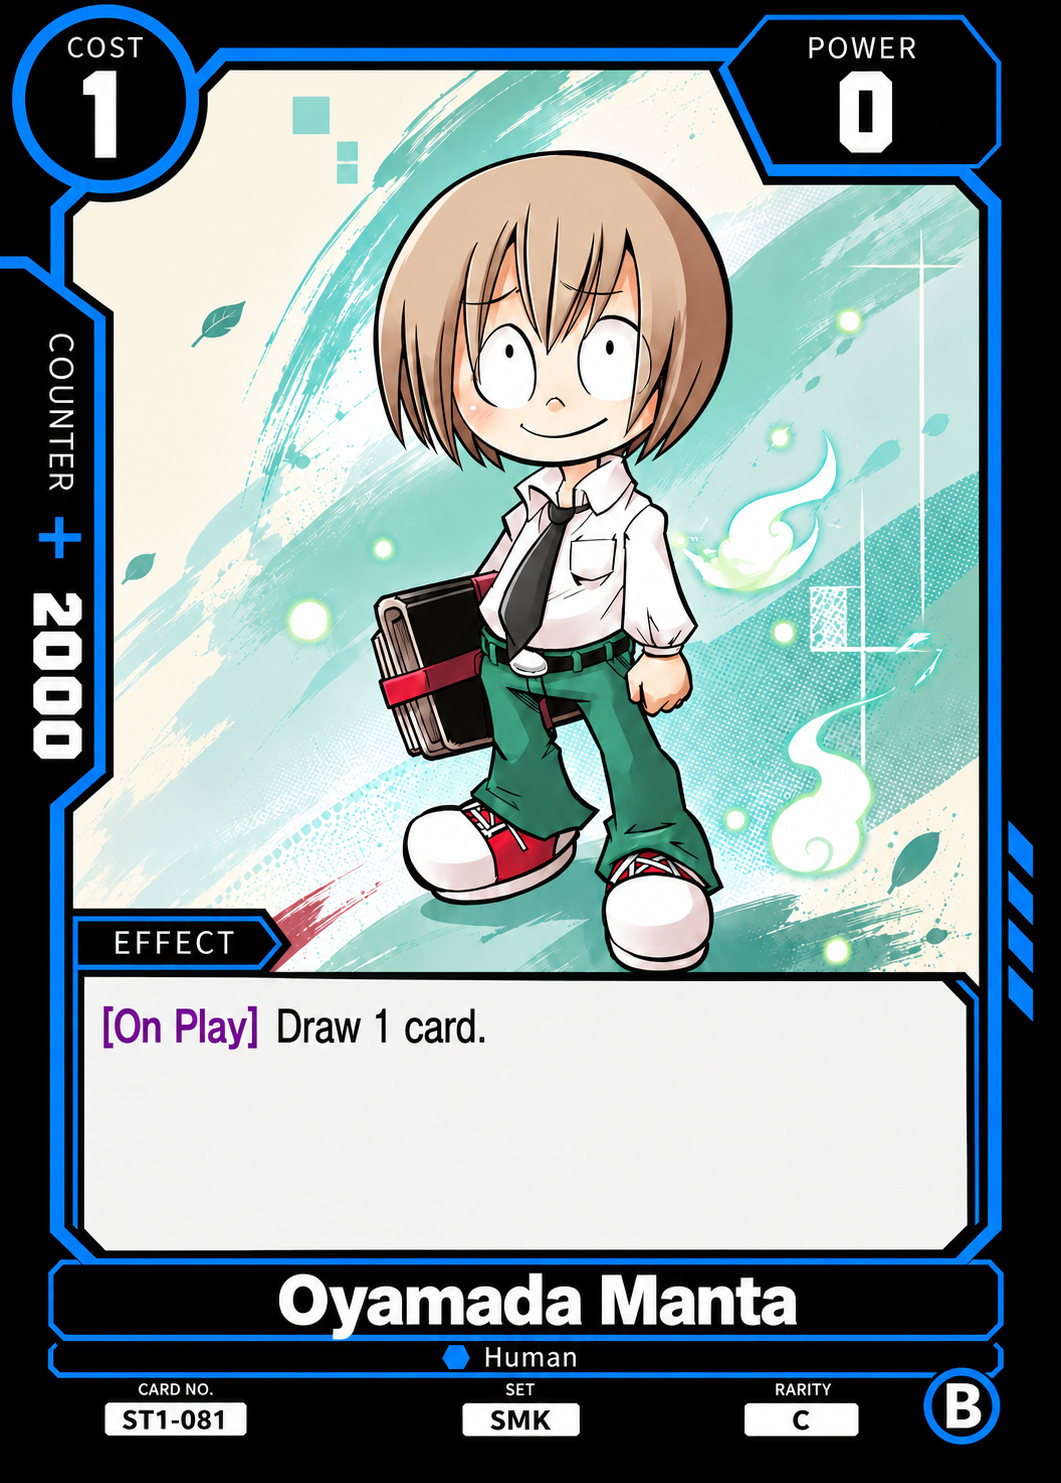
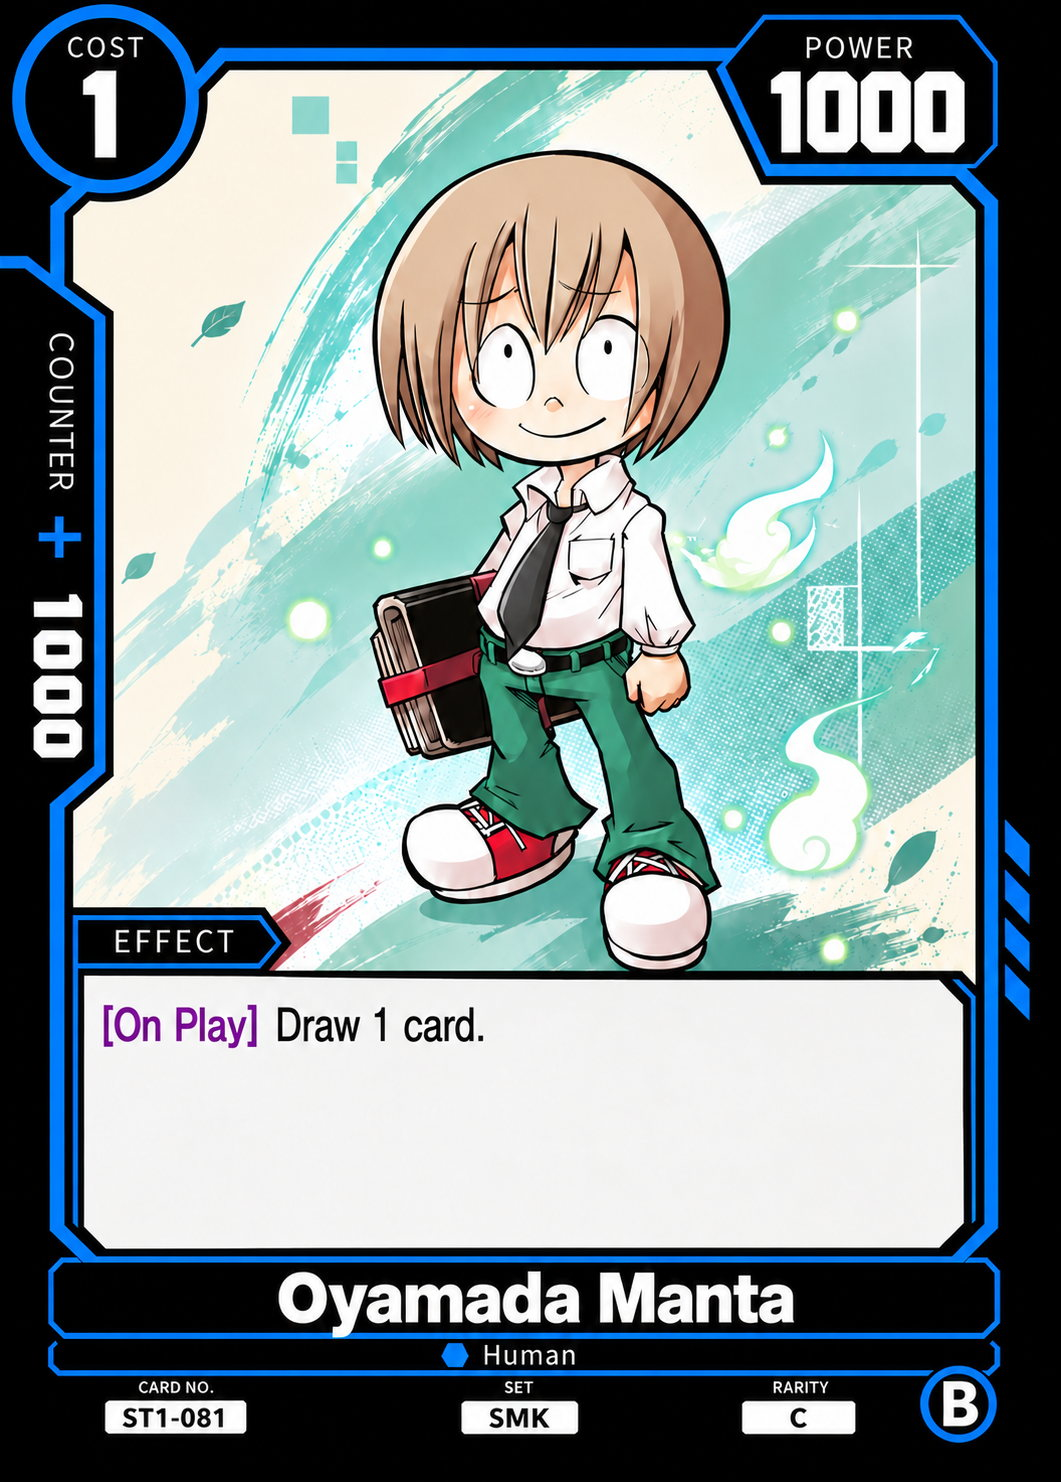
Refresh mixed card prints and resolve Compass Needle hold

diff --git a/card-text-data.js b/card-text-data.js
@@ -1846,8 +1846,8 @@ window.SJTCG_CARD_TEXT = {
     "cost": "1",
     "sj_cost": "",
     "life": "",
-    "power": "0",
-    "counter": "2000",
+    "power": "1000",
+    "counter": "1000",
     "traits": "Human",
     "set": "SMK",
     "rarity": "C",
@@ -2128,8 +2128,8 @@ window.SJTCG_CARD_TEXT = {
     "set": "SMK",
     "rarity": "UC",
     "bottom_right_circle": "B",
-    "effect": "Deflect\n[On Play] Add 1 card from under 1 of Units to your hand: Draw 1 card; place 1 card from your hand at the top or bottom of your Deck.\n[Activate: Main] Limit 1 Play 1 \"Amidamaru\" from under 1 of your other Units: Return 1 of your Units to your hand. Then, choose up to 1 Unit with a Cost of 2 or less and return it to its owner's hand.",
-    "effect_html": "<span class=\"kw kw-red\" title=\"Deflect\">Deflect</span><br><span class=\"kw kw-purple\" title=\"Timing window\">[On Play]</span> Add 1 card from under 1 of Units to your hand: Draw 1 card; place 1 card from your hand at the top or bottom of your Deck.<br><span class=\"kw kw-purple\" title=\"Timing window\">[Activate: Main]</span> <span class=\"kw kw-red\" title=\"Limit X\">Limit 1</span> Play 1 &quot;Amidamaru&quot; from under 1 of your other Units: Return 1 of your Units to your hand. Then, choose up to 1 Unit with a Cost of 2 or less and return it to its owner&#x27;s hand.",
+    "effect": "Deflect\n[On Play] Add 1 card from under 1 of your \"Asakura Yoh\" to your hand: Draw 1 card; place 2 cards from your hand at the bottom of your Deck.\n[Activate: Main] Limit 1 Play 1 \"Amidamaru\" from under 1 of your other Units: Return 1 of your Units to your hand. Then, choose up to 1 Unit with a Cost of 2 or less and return it to its owner's hand.",
+    "effect_html": "<span class=\"kw kw-red\" title=\"Deflect\">Deflect</span><br><span class=\"kw kw-purple\" title=\"Timing window\">[On Play]</span> Add 1 card from under 1 of your &quot;Asakura Yoh&quot; to your hand: Draw 1 card; place 2 cards from your hand at the bottom of your Deck.<br><span class=\"kw kw-purple\" title=\"Timing window\">[Activate: Main]</span> <span class=\"kw kw-red\" title=\"Limit X\">Limit 1</span> Play 1 &quot;Amidamaru&quot; from under 1 of your other Units: Return 1 of your Units to your hand. Then, choose up to 1 Unit with a Cost of 2 or less and return it to its owner&#x27;s hand.",
     "notes": "",
     "transcription_status": "verified",
     "release": "ST1",
@@ -2151,8 +2151,8 @@ window.SJTCG_CARD_TEXT = {
     "set": "SMK",
     "rarity": "UC",
     "bottom_right_circle": "B",
-    "effect": "Deflect\n[On Play] Add 1 card from under 1 of your Units to your hand: Draw 1 card; place 1 card from your hand at the top or bottom of your Deck.\n[Activate: Main] Limit 1 Play 1 \"Amidamaru\" from under 1 of your other Units: Place 1 of your Units at the bottom of your Deck. Then, choose up to 1 of your Opponent's Units with a cost of 2 or less and place it at the bottom of its owner's Deck.",
-    "effect_html": "<span class=\"kw kw-red\" title=\"Deflect\">Deflect</span><br><span class=\"kw kw-purple\" title=\"Timing window\">[On Play]</span> Add 1 card from under 1 of your Units to your hand: Draw 1 card; place 1 card from your hand at the top or bottom of your Deck.<br><span class=\"kw kw-purple\" title=\"Timing window\">[Activate: Main]</span> <span class=\"kw kw-red\" title=\"Limit X\">Limit 1</span> Play 1 &quot;Amidamaru&quot; from under 1 of your other Units: Place 1 of your Units at the bottom of your Deck. Then, choose up to 1 of your Opponent&#x27;s Units with a cost of 2 or less and place it at the bottom of its owner&#x27;s Deck.",
+    "effect": "Deflect\n[On Play] Add 1 card from under 1 of your \"Asakura Yoh\" to your hand: Draw 1 card; place 2 cards from your hand at the bottom of your Deck.\n[Activate: Main] Limit 1 Play 1 \"Amidamaru\" from under 1 of your other Units: Place 1 of your Units at the bottom of your Deck. Then, choose up to 1 of your Opponent's Units with a cost of 2 or less and place it at the bottom of its owner's Deck.",
+    "effect_html": "<span class=\"kw kw-red\" title=\"Deflect\">Deflect</span><br><span class=\"kw kw-purple\" title=\"Timing window\">[On Play]</span> Add 1 card from under 1 of your &quot;Asakura Yoh&quot; to your hand: Draw 1 card; place 2 cards from your hand at the bottom of your Deck.<br><span class=\"kw kw-purple\" title=\"Timing window\">[Activate: Main]</span> <span class=\"kw kw-red\" title=\"Limit X\">Limit 1</span> Play 1 &quot;Amidamaru&quot; from under 1 of your other Units: Place 1 of your Units at the bottom of your Deck. Then, choose up to 1 of your Opponent&#x27;s Units with a cost of 2 or less and place it at the bottom of its owner&#x27;s Deck.",
     "notes": "",
     "transcription_status": "verified",
     "release": "ST1",
@@ -5279,8 +5279,8 @@ window.SJTCG_CARD_TEXT = {
     "set": "MLM",
     "rarity": "SR",
     "bottom_right_circle": "P",
-    "effect": "[On Play] Limit 1 Add up to 1 Unit card with a Cost of 2 or less and the \"King Vessel\" or \"Magi\" Trait from your Drop to your hand. Then, play up to 1 Unit card with a Cost of 2 or less from your hand Rested.\n[End of your Turn] If a card was added from your Life to your hand by your skill(s) this turn: Give this card +2000 Power and Blocker until the end of your Opponent's next turn.",
-    "effect_html": "<span class=\"kw kw-purple\" title=\"Timing window\">[On Play]</span> <span class=\"kw kw-red\" title=\"Limit X\">Limit 1</span> Add up to 1 Unit card with a Cost of 2 or less and the &quot;King Vessel&quot; or &quot;Magi&quot; Trait from your Drop to your hand. Then, play up to 1 Unit card with a Cost of 2 or less from your hand Rested.<br><span class=\"kw kw-purple\" title=\"Timing window\">[End of your Turn]</span> If a card was added from your Life to your hand by your skill(s) this turn: Give this card +2000 Power and <span class=\"kw kw-red\" title=\"Blocker\">Blocker</span> until the end of your Opponent&#x27;s next turn.",
+    "effect": "[On Play] Limit 1 Play up to 1 Unit card with a Cost of 2 or less and the \"King Vessel\" or \"Magi\" Trait from your Drop Rested.\n[End of your Turn] If a card was added from your Life to your hand by your skill(s) this turn: Give this card in Active mode +2000 Power and Blocker until the end of your Opponent's next turn.",
+    "effect_html": "<span class=\"kw kw-purple\" title=\"Timing window\">[On Play]</span> <span class=\"kw kw-red\" title=\"Limit X\">Limit 1</span> Play up to 1 Unit card with a Cost of 2 or less and the &quot;King Vessel&quot; or &quot;Magi&quot; Trait from your Drop Rested.<br><span class=\"kw kw-purple\" title=\"Timing window\">[End of your Turn]</span> If a card was added from your Life to your hand by your skill(s) this turn: Give this card in Active mode +2000 Power and <span class=\"kw kw-red\" title=\"Blocker\">Blocker</span> until the end of your Opponent&#x27;s next turn.",
     "notes": "",
     "transcription_status": "verified",
     "release": "ST2",
@@ -8821,8 +8821,8 @@ window.SJTCG_CARD_TEXT = {
     "set": "KNY",
     "rarity": "L",
     "bottom_right_circle": "R",
-    "effect": "Once per Turn When your Unit attacks an Opponent's Unit, give your card that's in a battle +1000 Power for the battle.\nOnce per Turn When you K.O. an Opponent's Unit by battle, draw 1 card.\nThreshold 2 [Activate: Main] (1) This card can attack your Opponent's Units in Active mode for the turn.",
-    "effect_html": "<span class=\"kw kw-orange\" title=\"Once per Turn\">Once per Turn</span> When your Unit attacks an Opponent's Unit, give your card that's in a battle +1000 Power for the battle.<br><span class=\"kw kw-orange\" title=\"Once per Turn\">Once per Turn</span> When you K.O. an Opponent's Unit by battle, draw 1 card.<br><span class=\"kw kw-orange\" title=\"Threshold X\">Threshold 2</span> <span class=\"kw kw-purple\" title=\"Timing window\">[Activate: Main]</span> (1) This card can attack your Opponent's Units in Active mode for the turn.",
+    "effect": "Once per Turn When your Unit attacks an Opponent's Unit, give your card that's in a battle +1000 Power for the battle.\nOnce per Turn When you K.O. an Opponent's Unit by battle, draw 1 card.\nThreshold 2 [Activate: Main] (1) Draw 1 card; This card can attack your Opponent's Units in Active mode for the turn.",
+    "effect_html": "<span class=\"kw kw-orange\" title=\"Once per Turn\">Once per Turn</span> When your Unit attacks an Opponent&#x27;s Unit, give your card that&#x27;s in a battle +1000 Power for the battle.<br><span class=\"kw kw-orange\" title=\"Once per Turn\">Once per Turn</span> When you K.O. an Opponent&#x27;s Unit by battle, draw 1 card.<br><span class=\"kw kw-orange\" title=\"Threshold X\">Threshold 2</span> <span class=\"kw kw-purple\" title=\"Timing window\">[Activate: Main]</span> (1) Draw 1 card; This card can attack your Opponent&#x27;s Units in Active mode for the turn.",
     "notes": "",
     "transcription_status": "verified",
     "release": "ST4",
@@ -9235,8 +9235,8 @@ window.SJTCG_CARD_TEXT = {
     "set": "KNY",
     "rarity": "R",
     "bottom_right_circle": "R",
-    "effect": "Scene\nPermanent Your Units with the \"Upper Rank\" Trait can attack your Opponent's Units in Active mode.",
-    "effect_html": "Scene<br><span class=\"kw kw-orange\" title=\"Permanent\">Permanent</span> Your Units with the \"Upper Rank\" Trait can attack your Opponent's Units in Active mode.",
+    "effect": "Scene\n[Your Turn] Your Units with the \"Upper Rank\" Trait can attack your Opponent's Units in Active mode.",
+    "effect_html": "<span class=\"kw kw-red\" title=\"Scene\">Scene</span><br><span class=\"kw kw-purple\" title=\"Timing window\">[Your Turn]</span> Your Units with the &quot;Upper Rank&quot; Trait can attack your Opponent&#x27;s Units in Active mode.",
     "notes": "",
     "transcription_status": "verified",
     "release": "ST4",
@@ -16503,15 +16503,15 @@ window.SJTCG_CARD_TEXT = {
     "color": "Blue",
     "cost": "",
     "sj_cost": "",
-    "life": "6",
+    "life": "5",
     "power": "5000",
     "counter": "",
     "traits": "Shaman",
     "set": "SMK",
     "rarity": "L",
     "bottom_right_circle": "B",
-    "effect": "[On Attack] Reveal 1 \"Bason\" from your hand; draw 1 card and place the revealed card at the top of your Deck.\n[Activate: Battle] Once per Turn When you use a card in a combo: Draw 1 card; place up to 1 \"Bason\" in your combo area under your Leader or 1 of your Units.\nThreshold 4 [Activate: Battle] Once per Turn Reveal the top card of your Deck: Use up to 1 \"Bason\" in a combo. Then, place the rest at the top or bottom of your Deck.",
-    "effect_html": "<span class=\"kw kw-purple\" title=\"Timing window\">[On Attack]</span> Reveal 1 &quot;Bason&quot; from your hand; draw 1 card and place the revealed card at the top of your Deck.<br><span class=\"kw kw-purple\" title=\"Timing window\">[Activate: Battle]</span> <span class=\"kw kw-orange\" title=\"Once per Turn\">Once per Turn</span> When you use a card in a combo: Draw 1 card; place up to 1 &quot;Bason&quot; in your combo area under your Leader or 1 of your Units.<br><span class=\"kw kw-orange\" title=\"Threshold X\">Threshold 4</span> <span class=\"kw kw-purple\" title=\"Timing window\">[Activate: Battle]</span> <span class=\"kw kw-orange\" title=\"Once per Turn\">Once per Turn</span> Reveal the top card of your Deck: Use up to 1 &quot;Bason&quot; in a combo. Then, place the rest at the top or bottom of your Deck.",
+    "effect": "[Your Turn] Once per Turn When you use a card in a combo: Draw 1 card; place up to 1 \"Bason\" from your combo area under your Leader or 1 of your Units.\n[On Attack] Reveal 1 \"Bason\" from your hand: Draw 1 card; place the revealed card at the top of your Deck.\nThreshold 3 [Activate: Battle] Once per Turn Reveal the top card of your Deck: Use up to 1 \"Bason\" in a combo. Then, place the rest at the bottom of your Deck.",
+    "effect_html": "<span class=\"kw kw-purple\" title=\"Timing window\">[Your Turn]</span> <span class=\"kw kw-orange\" title=\"Once per Turn\">Once per Turn</span> When you use a card in a combo: Draw 1 card; place up to 1 &quot;Bason&quot; from your combo area under your Leader or 1 of your Units.<br><span class=\"kw kw-purple\" title=\"Timing window\">[On Attack]</span> Reveal 1 &quot;Bason&quot; from your hand: Draw 1 card; place the revealed card at the top of your Deck.<br><span class=\"kw kw-orange\" title=\"Threshold X\">Threshold 3</span> <span class=\"kw kw-purple\" title=\"Timing window\">[Activate: Battle]</span> <span class=\"kw kw-orange\" title=\"Once per Turn\">Once per Turn</span> Reveal the top card of your Deck: Use up to 1 &quot;Bason&quot; in a combo. Then, place the rest at the bottom of your Deck.",
     "notes": "",
     "transcription_status": "verified",
     "release": "SD1",
@@ -16556,8 +16556,8 @@ window.SJTCG_CARD_TEXT = {
     "set": "SMK",
     "rarity": "SR",
     "bottom_right_circle": "B",
-    "effect": "Limit 1 When this card is used in a combo from your hand or Deck: Give up to 1 of your \"Tao Ren\" +1000 Power for the battle.\nPermanent When this card is placed under your \"Tao Ren\" Unit, give the card on top of this card Barrier until the end of your Opponent's next turn.",
-    "effect_html": "<span class=\"kw kw-red\" title=\"Limit X\">Limit 1</span> When this card is used in a combo from your hand or Deck: Give up to 1 of your &quot;Tao Ren&quot; +1000 Power for the battle.<br><span class=\"kw kw-orange\" title=\"Permanent\">Permanent</span> When this card is placed under your &quot;Tao Ren&quot; Unit, give the card on top of this card <span class=\"kw kw-red\" title=\"Barrier\">Barrier</span> until the end of your Opponent&#x27;s next turn.",
+    "effect": "Limit 1 When this card is used in a combo from your hand or Deck: Give up to 1 of your \"Tao Ren\" +1000 Power for the battle.\n[Your Turn] When this card is placed under your \"Tao Ren\" Unit, give the card on top of this card Barrier until the end of your Opponent's next turn.",
+    "effect_html": "<span class=\"kw kw-red\" title=\"Limit X\">Limit 1</span> When this card is used in a combo from your hand or Deck: Give up to 1 of your &quot;Tao Ren&quot; +1000 Power for the battle.<br><span class=\"kw kw-purple\" title=\"Timing window\">[Your Turn]</span> When this card is placed under your &quot;Tao Ren&quot; Unit, give the card on top of this card <span class=\"kw kw-red\" title=\"Barrier\">Barrier</span> until the end of your Opponent&#x27;s next turn.",
     "notes": "",
     "transcription_status": "verified",
     "release": "SD1",
@@ -16625,8 +16625,8 @@ window.SJTCG_CARD_TEXT = {
     "set": "SMK",
     "rarity": "C",
     "bottom_right_circle": "B",
-    "effect": "[On Play] Add up to 1 card from your Life to your hand.\n[Activate: Battle] Once per Turn When this card is used in a combo from your field: Use up to 1 Unit with the \"Guardian Ghost\" Trait in a combo from your Drop.",
-    "effect_html": "<span class=\"kw kw-purple\" title=\"Timing window\">[On Play]</span> Add up to 1 card from your Life to your hand.<br><span class=\"kw kw-purple\" title=\"Timing window\">[Activate: Battle]</span> <span class=\"kw kw-orange\" title=\"Once per Turn\">Once per Turn</span> When this card is used in a combo from your field: Use up to 1 Unit with the &quot;Guardian Ghost&quot; Trait in a combo from your Drop.",
+    "effect": "Limit 1 When this card is used in a combo from your field: Use up to 1 Unit card with the \"Guardian Ghost\" Trait from your Drop in a combo with its skills negated for the turn.\n[On Play] Add up to 1 card from your Life to your hand.",
+    "effect_html": "<span class=\"kw kw-red\" title=\"Limit X\">Limit 1</span> When this card is used in a combo from your field: Use up to 1 Unit card with the &quot;Guardian Ghost&quot; Trait from your Drop in a combo with its skills negated for the turn.<br><span class=\"kw kw-purple\" title=\"Timing window\">[On Play]</span> Add up to 1 card from your Life to your hand.",
     "notes": "",
     "transcription_status": "verified",
     "release": "SD1",
@@ -17430,8 +17430,8 @@ window.SJTCG_CARD_TEXT = {
     "set": "ENS",
     "rarity": "L",
     "bottom_right_circle": "R",
-    "effect": "[On Attack] Choose up to 1 of your Opponent's Units and give it -3000 Power for the turn. Then, if its Power is 0 or less, K.O. it.\nThreshold 1 [Your Turn] <Once per Turn> When one of your Opponent's Units is K.O.ed by your skill: Switch this card to Active mode, give it +1000 Power until the end of your Opponent's next turn, and it cannot attack your Opponent's Leader for the turn.",
-    "effect_html": "<span class=\"kw kw-purple\" title=\"Timing window\">[On Attack]</span> Choose up to 1 of your Opponent&#39;s Units and give it -3000 Power for the turn. Then, if its Power is 0 or less, K.O. it.<br><span class=\"kw kw-orange\" title=\"Threshold X\">Threshold 1</span> <span class=\"kw kw-purple\" title=\"Timing window\">[Your Turn]</span> &lt;<span class=\"kw kw-orange\" title=\"Once per Turn\">Once per Turn</span>&gt; When one of your Opponent&#39;s Units is K.O.ed by your skill: Switch this card to Active mode, give it +1000 Power until the end of your Opponent&#39;s next turn, and it cannot attack your Opponent&#39;s Leader for the turn.",
+    "effect": "[On Attack] Draw 1 card; choose up to 1 of your Opponent's Units and give it -3000 Power for the turn. Then, if its Power is 0 or less, K.O. it.\nThreshold 2 [Your Turn] Once per Turn When 1 of your Opponent's Units is K.O.'d by your skill: Switch this card to Active mode and give it +1000 Power until the end of your Opponent's next turn. Then, this card can't attack your Opponent's Leader for the turn.",
+    "effect_html": "<span class=\"kw kw-purple\" title=\"Timing window\">[On Attack]</span> Draw 1 card; choose up to 1 of your Opponent&#x27;s Units and give it -3000 Power for the turn. Then, if its Power is 0 or less, K.O. it.<br><span class=\"kw kw-orange\" title=\"Threshold X\">Threshold 2</span> <span class=\"kw kw-purple\" title=\"Timing window\">[Your Turn]</span> <span class=\"kw kw-orange\" title=\"Once per Turn\">Once per Turn</span> When 1 of your Opponent&#x27;s Units is K.O.&#x27;d by your skill: Switch this card to Active mode and give it +1000 Power until the end of your Opponent&#x27;s next turn. Then, this card can&#x27;t attack your Opponent&#x27;s Leader for the turn.",
     "notes": "",
     "transcription_status": "verified",
     "release": "SD3",

diff --git a/cards-data.js b/cards-data.js
@@ -1114,7 +1114,7 @@ window.SJTCG_CARD_DATA = [
     "cardType": "Main Deck",
     "deckLimit": 4,
     "orientation": "Portrait",
-    "imageVersion": "06fb7b3f1cf3"
+    "imageVersion": "43af7765a804"
   },
   {
     "number": "ST1-082",
@@ -1282,7 +1282,7 @@ window.SJTCG_CARD_DATA = [
     "cardType": "Main Deck",
     "deckLimit": 4,
     "orientation": "Portrait",
-    "imageVersion": "01ceb45b7b6a"
+    "imageVersion": "cf1749416559"
   },
   {
     "number": "ST1-094",
@@ -1294,7 +1294,7 @@ window.SJTCG_CARD_DATA = [
     "cardType": "Main Deck",
     "deckLimit": 4,
     "orientation": "Portrait",
-    "imageVersion": "8eeafd2d83c7"
+    "imageVersion": "05c843255271"
   },
   {
     "number": "ST1-095",
@@ -3158,13 +3158,13 @@ window.SJTCG_CARD_DATA = [
     "cardType": "Main Deck",
     "deckLimit": 4,
     "orientation": "Portrait",
-    "imageVersion": "00c28602de17",
+    "imageVersion": "32f7c798d9af",
     "altImages": [
       {
         "label": "ST2 — Alt Art",
         "image": "images/ST2-103-alt1.jpg",
         "release": "ST2",
-        "imageVersion": "11d6cf918101"
+        "imageVersion": "4abe0fb11341"
       }
     ]
   },
@@ -5270,13 +5270,13 @@ window.SJTCG_CARD_DATA = [
     "cardType": "Leader",
     "deckLimit": 1,
     "orientation": "Portrait",
-    "imageVersion": "e5c8268bb6e0",
+    "imageVersion": "13f5558c661f",
     "altImages": [
       {
         "label": "ST7 Leader Reprint — Alt Art",
         "image": "images/ST4-026-alt1.jpg",
         "release": "ST7",
-        "imageVersion": "7de0b8bf0ebf"
+        "imageVersion": "d4209888eeb9"
       }
     ]
   },
@@ -5494,7 +5494,7 @@ window.SJTCG_CARD_DATA = [
     "cardType": "Main Deck",
     "deckLimit": 4,
     "orientation": "Portrait",
-    "imageVersion": "dba93a4cb473"
+    "imageVersion": "25ed3e303aff"
   },
   {
     "number": "ST4-045",
@@ -9534,13 +9534,13 @@ window.SJTCG_CARD_DATA = [
     "cardType": "Leader",
     "deckLimit": 1,
     "orientation": "Portrait",
-    "imageVersion": "457fc72baa6c",
+    "imageVersion": "523433d31423",
     "altImages": [
       {
         "label": "ST7 Leader Reprint — Alt Art",
         "image": "images/SD1-001-alt1.jpg",
         "release": "ST7",
-        "imageVersion": "e61afeddfacc"
+        "imageVersion": "4f0f6f8fd4d2"
       }
     ]
   },
@@ -9566,7 +9566,7 @@ window.SJTCG_CARD_DATA = [
     "cardType": "Main Deck",
     "deckLimit": 4,
     "orientation": "Portrait",
-    "imageVersion": "c05c2367a1ed"
+    "imageVersion": "922b270eebe2"
   },
   {
     "number": "SD1-004",
@@ -9602,13 +9602,13 @@ window.SJTCG_CARD_DATA = [
     "cardType": "Main Deck",
     "deckLimit": 4,
     "orientation": "Portrait",
-    "imageVersion": "d183299848d1",
+    "imageVersion": "7c39a14a1c9e",
     "altImages": [
       {
         "label": "SD1 — Alt Art",
         "image": "images/SD1-006-alt1.jpg",
         "release": "SD1",
-        "imageVersion": "d355242e25aa"
+        "imageVersion": "5fb22d73a1da"
       }
     ]
   },
@@ -10078,13 +10078,13 @@ window.SJTCG_CARD_DATA = [
     "cardType": "Leader",
     "deckLimit": 1,
     "orientation": "Portrait",
-    "imageVersion": "ffa3172fbf75",
+    "imageVersion": "a68b800472cf",
     "altImages": [
       {
         "label": "ST7 Leader Reprint — Alt Art",
         "image": "images/SD3-001-alt1.jpg",
         "release": "ST7",
-        "imageVersion": "69f743979e92"
+        "imageVersion": "f4fbe5a741aa"
       }
     ]
   },

diff --git a/index.html b/index.html
@@ -214,8 +214,8 @@
     </section>
   </div>
 
-  <script src="cards-data.js?v=9978e8df94bc"></script>
-  <script src="card-text-data.js?v=6732d4d56b40"></script>
+  <script src="cards-data.js?v=13be4dc544d3"></script>
+  <script src="card-text-data.js?v=ce7e6a5267ef"></script>
   <script src="app.js?v=20261009-reprint-search-2"></script>
 </body>
 </html>
